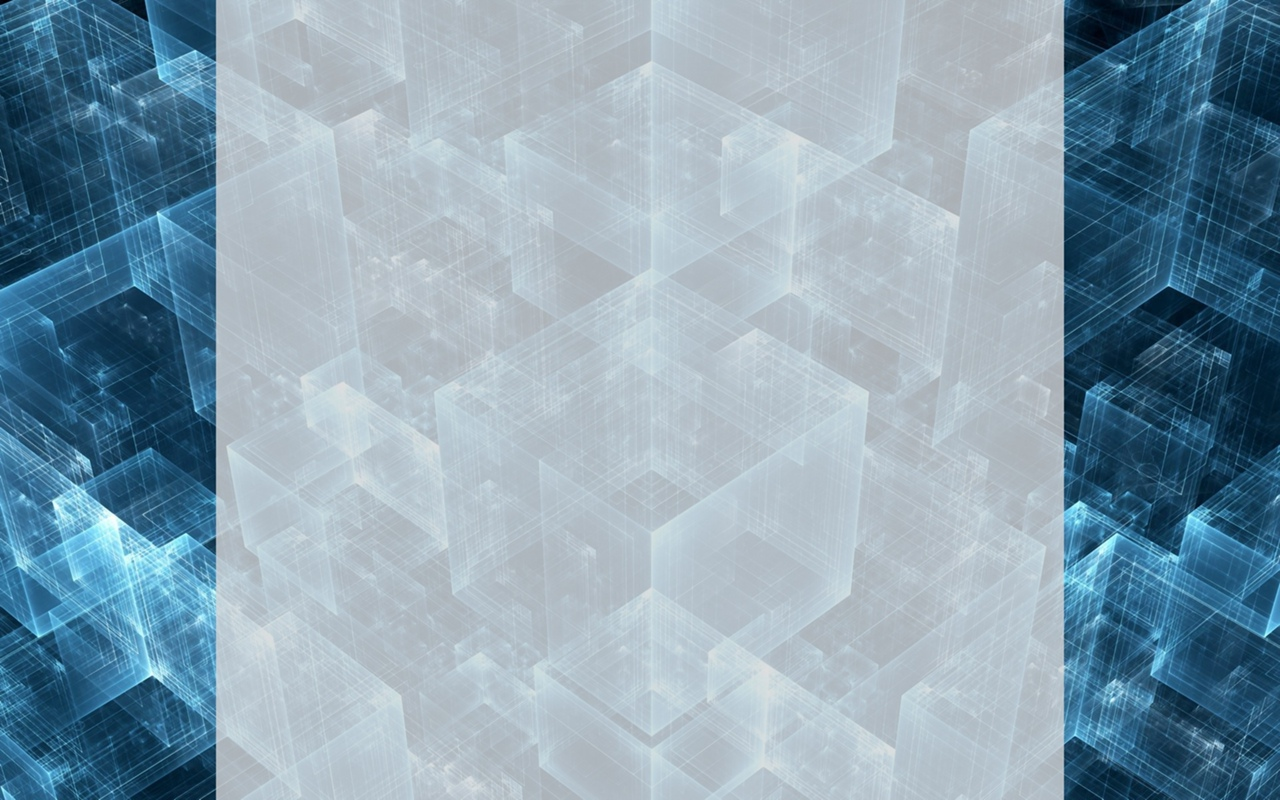
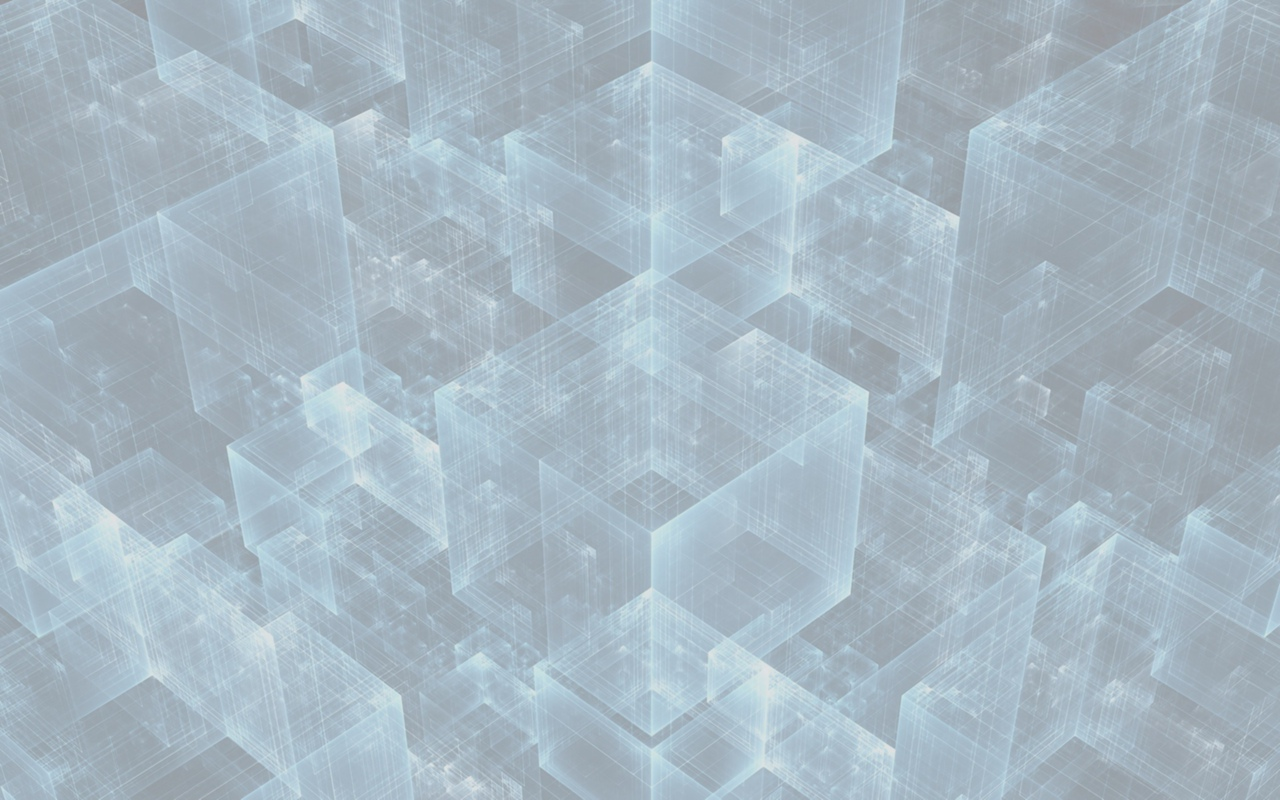
1

diff --git a/begin.html b/begin.html
@@ -5,7 +5,11 @@
 <title>Веб-квест по теме "Информационные технологии в системе современного образования"</title>
 <link rel="shortcut icon" href="3.png" type="image/png">
 <style>body {
-    background: #c7b39b url(1.jpg);
+margin: 0;
+    height: 100%;
+    background: #c7b39b url(1.jpg); 
+	background-size: cover;
+	background-attachment: fixed;
    }
   </style>
 </head>

diff --git a/new.html b/new.html
@@ -5,7 +5,11 @@
 <title>Новый уровень</title>
 <link rel="shortcut icon" href="3.png" type="image/png">
 <style>body {
-    background: #c7b39b url(1.jpg);
+margin: 0;
+    height: 100%;
+    background: #c7b39b url(1.jpg); 
+	background-size: cover;
+	background-attachment: fixed;
    }
   </style>
 </head>

diff --git a/next.html b/next.html
@@ -5,7 +5,11 @@
 <title>Следующий шаг</title>
 <link rel="shortcut icon" href="3.png" type="image/png">
 <style>body {
-    background: #c7b39b url(1.jpg);
+margin: 0;
+    height: 100%;
+    background: #c7b39b url(1.jpg); 
+	background-size: cover;
+	background-attachment: fixed;
    }
   </style>
 </head>
